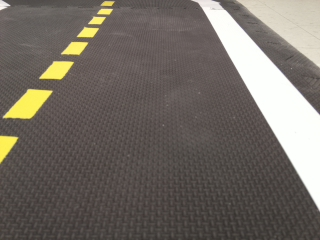
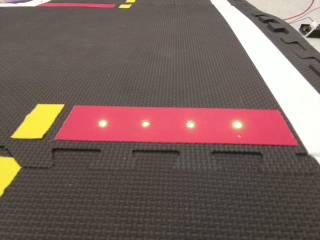
Fixed lights, analyzed control rate (added statistics message)

Changed region(s): [[0.0, 0.0, 1.0, 0.875], [0.4062, 0.9042, 0.4375, 0.9917], [0.9688, 0.9917, 1.0, 1.0]]

diff --git a/Python/driver.py b/Python/driver.py
@@ -31,12 +31,14 @@ class Driver:
     
     self.red_roi = cv.red_roi
     self.green_roi = cv.green_roi
+    self.green_roi.recenter(*self.red_roi.get_center())
     
   def update(self, image):
     if self.needs_instruction:
       print('Driver needs instruction!')
       return
       
+    #print('Driver in state {}'.format(self.state))
     if self.state == DriveState.FOLLOWING_LANE:
       # Look for Stop using RegionOfInterest code
       red = cv.search_region(image, self.red_roi, cv.Color.RED)
@@ -47,12 +49,19 @@ class Driver:
         self.state = DriveState.APPROACHING_STOP
         print('Stop seen for the first time')
         
+        # Get stop center.
+        start_red, end_red = cv.get_color_extent_vt(image, red[0], red[1])
+        red_center = start_red[0] + int((end_red[0] - start_red[0]) / 2.0), red[1]
+        # Center red ROI on the center of the red line
+        self.red_roi.recenter(red_center[0], red_center[1])
+
         # Debugging
         cv.draw_region(image, self.red_roi, (255, 255, 255))
         cv.draw_square(image, self.red_roi.get_center()[0], self.red_roi.get_center()[1], (255, 255, 255), 5)
         Image.fromarray(image, 'RGB').show()
-        # Call another update to run in APPROACHING_STOP
-        self.update(image)
+        return
+                # Call another update to run in APPROACHING_STOP
+        #self.update(image)
       # No stop: continue lane-following
       else:
         # Get lane center coordinates *in pixels*
@@ -73,7 +82,10 @@ class Driver:
         # No lane seen while following lane: use previous point.
         if lane_center is None and self.state == DriveState.FOLLOWING_LANE:
           #print('Couldn\'t see the lane')  # TODO: TIMEOUT IF CAN'T SEE THE LANE FOR MORE THAN X SECONDS
-          lane_center = self.old_ctr
+          try:
+            lane_center = self.old_ctr
+          except:
+            pass
         # No lane seen while in intersection: do nothing (let open loop continue)
         elif lane_center is None and self.state == DriveState.IN_INTERSECTION:
           print('Continuing open-loop')
@@ -92,6 +104,12 @@ class Driver:
     # Currently approaching stop: track the stop line as it gets closer
     elif self.state == DriveState.APPROACHING_STOP:
       print('APPROACHING STOP')
+      red = cv.search_region(image, self.red_roi, cv.Color.RED)
+      if not red:
+        print('Cant find red')
+        cv.draw_region(image, self.red_roi, (255, 255, 255))
+        cv.draw_square(image, self.red_roi.get_center()[0], self.red_roi.get_center()[1], (255, 255, 255), 5)
+        Image.fromarray(image, 'RGB').show()
       # Get stop center.
       start_red, end_red = cv.get_color_extent_vt(image, red[0], red[1])  # TODO: GET WHOLE REGION OF RED?
       red_center = start_red[0] + int((end_red[0] - start_red[0]) / 2.0), red[1]
@@ -113,7 +131,8 @@ class Driver:
         
     # Currently stopped: check for green.  
     elif self.state == DriveState.STOPPED:
-      green = cv.search_region(image, self.green_roi, cv.Color.GREEN, box_size=1, step_rows=1, step_cols=1)
+      print('Searching for green in {}'.format(self.green_roi))
+      green = cv.search_region(image, self.green_roi, cv.Color.GREEN, box_size=1, step_rows=2, step_cols=2)
       
       # Green seen: start rolling into intersection
       if green:
@@ -153,7 +172,7 @@ class Driver:
       elif self.next_turn == TurnType.RIGHT:
         self.car.command_openloop_rcurve(self.speed_limit, \
             RIGHT_TURN_RADIUS, PI / 2.0, self._on_openloop_finished)
-      elif next_turn == TurnType.STRAIGHT:
+      elif self.next_turn == TurnType.STRAIGHT:
         self.car.command_openloop_straight(self.speed_limit, \
             5.0, self._on_openloop_finished)
       else:

diff --git a/Python/arduino_interface.py b/Python/arduino_interface.py
@@ -19,7 +19,7 @@ class ArduinoInterface:
     else:
       while self.serial_port.in_waiting >= 14:
         bytes_read = self.serial_port.read(14)
-        print('Got bytes {}'.format(bytes_read))
+        #print('Got bytes {}'.format(bytes_read))
         read_packet = ArduinoToPiPacket(bytes_read)
         # Look up whether there is a registered callback function
         if read_packet.seq_num in self.callbacks:
@@ -29,7 +29,7 @@ class ArduinoInterface:
 
   # Creates and sends the packet. Also registers the callback function.
   def send_packet(self, command_id, arg1=0.0, arg2=0.0, arg3=0.0, callback_fcn=None):
-    print('Sending packet')
+    #print('Sending packet')
     # Increment and save sequence number
     self.seq_num += 1
     seq_num = self.seq_num
@@ -74,3 +74,6 @@ class ArduinoInterface:
   def command_closedloop(self, rx, ry, rtheta, callback=None):
       self.send_packet(PiToArduinoCmd.CLOSEDLOOP, arg1=rx, arg2=ry, \
           arg3=rtheta)
+          
+  def turn_statistics_on(self, period_sec, callback=None):
+      self.send_packet(PiToArduinoCmd.TURN_STATISTICS_ON, arg1=period_sec, callback_fcn=callback)

diff --git a/Python/main.py b/Python/main.py
@@ -12,6 +12,10 @@ IMAGE_HEIGHT = 240
 segment_start_time = None
 num_driver_updates = 0
 
+def _receive_statistics(msPerLoop, msPerPacket, arg3):
+  print('Received statistics {} ms per loop, {} ms per packet'.format(msPerLoop, msPerPacket))
+  
+  
 if __name__ == '__main__':
   arduino_interface = ArduinoInterface('/dev/ttyACM0', 115200, timeout=1.0)
   camera = Camera(framerate=20)
@@ -23,6 +27,7 @@ if __name__ == '__main__':
   time.sleep(2)
   driver.set_speed_limit(10.0)
   pixel_data = np.empty(shape=(IMAGE_HEIGHT, IMAGE_WIDTH, 3), dtype='uint8')
+  arduino_interface.turn_statistics_on(10, _receive_statistics)
   
   try:
     while True:
@@ -48,8 +53,12 @@ if __name__ == '__main__':
         
       # Run next control update if a frame is ready.
       if camera.frame_ready:
+        print('Frame ready at time {}'.format(time.time()))
+        start_time = time.time()
         camera.get_frame(pixel_data)
         driver.update(pixel_data)
+        end_time = time.time()
+        print('Update loop took {} seconds'.format(end_time - start_time))
         num_driver_updates += 1
         
   finally:

diff --git a/Python/cv.py b/Python/cv.py
@@ -21,19 +21,19 @@ CAMERA_RESOLUTION = (320, 240)
 YELLOW_RGB = (254, 240, 82)
 RED_RGB = (255, 73, 109)
 WHITE_RGB = (254, 255, 253)
-GREEN_RGB = (120, 190, 150) # TODO: 
+GREEN_RGB = (251, 254, 247)
 
 YELLOW_TOLERANCE = 75
 RED_TOLERANCE = 70
 WHITE_TOLERANCE = 40
-GREEN_TOLERANCE = 70 # TODO
+GREEN_TOLERANCE = 50 # TODO
 
 # Scaled for 320*240
 sample_size = 4
 pixels_per_cm = 12
 LANE_WIDTH_PX = 240
-yellow_width = 0#22
-white_width = 0#32
+yellow_width = 0
+white_width = 0
 start_row = int(img_height*(160/240))
 rows_checked = int(img_height*(40/240))
 start_col = 0
@@ -102,7 +102,7 @@ white_backup_roi = RegionOfInterest(70, 155, 165, 100)
 red_roi = RegionOfInterest(100, 150, 40, 40)
 red_backup_roi = RegionOfInterest(130, 150, 45, 100)
 catastrophic_roi = RegionOfInterest(0, 0, CAMERA_RESOLUTION[0], CAMERA_RESOLUTION[1])
-green_roi = RegionOfInterest(100, 70, 120, 40)  # TODO
+green_roi = RegionOfInterest(100, 70, 160, 60)  # TODO
 
 # Possible colors
 class Color(Enum):

diff --git a/Arduino/ducky_town/packet_defs.h b/Arduino/ducky_town/packet_defs.h
@@ -23,7 +23,9 @@ enum class PiToArduinoCmd
   SET_OPENLOOP_STRAIGHT = 7,
   SET_OPENLOOP_R_CURVE = 8,
   SET_OPENLOOP_L_CURVE = 9,
-  SET_CLOSEDLOOP = 10
+  SET_CLOSEDLOOP = 10,
+  RESET_ODOMETRY = 11, // TODO
+  TURN_STATISTICS_ON = 12
 };
 
 enum class ArduinoToPiRsp   // TODO: THREE LONGS
@@ -34,7 +36,8 @@ enum class ArduinoToPiRsp   // TODO: THREE LONGS
   ILLEGIBLE_PACKET = 4,
   ODOMETRY = 5,
   TICKS = 6,
-  CONTROL_FINISHED = 7
+  CONTROL_FINISHED = 7,
+  STATISTICS = 8
   //MOTOR_ERROR = 3
 };
 

diff --git a/Arduino/ducky_town/wheel_interface.cpp b/Arduino/ducky_town/wheel_interface.cpp
@@ -34,11 +34,19 @@ int WheelInterface::boundRightPWM(int pwm)
 
 int WheelInterface::leftPWMFromSpeed(float cmPerSec)  // TODO: USE NEW TRACK PWMS
 {
+  if (cmPerSec == 0.0)
+  {
+    return 0;
+  }
   return (int) (89.81 + cmPerSec * 6.024);
 }
 
 int WheelInterface::rightPWMFromSpeed(float cmPerSec)  // TODO: DOES THIS WORK FOR NEGATIVE VALUES?
 {
+  if (cmPerSec == 0.0)
+  {
+    return 0;
+  }
   return (int) (88.39 + cmPerSec * 5.952);
 }
 

diff --git a/Arduino/ducky_town/proximity_sensor.cpp b/Arduino/ducky_town/proximity_sensor.cpp
@@ -39,7 +39,7 @@ void ProximitySensor::runCollisionAvoidance(float dx, WheelInterface* wheels)
   {
     wheels->startSpeedOverride(0);
     //wheels->commandPWMs(0, 0);
-    Serial.println("Overriding (dist " + String(fwd_dist) + ")");
+//    Serial.println("Overriding (dist " + String(fwd_dist) + ")");
   }
   // Turn off override.
   if (fwd_dist >= minFollowDistanceCm && wheels->overrideOn)

diff --git a/Python/packets.py b/Python/packets.py
@@ -13,6 +13,7 @@ class PiToArduinoCmd(Enum):
   OPENLOOP_L_CURVE = 9
   CLOSEDLOOP = 10
   RESET_ODOMETRY = 11
+  TURN_STATISTICS_ON = 12
 
 # TODO: PREAMBLES?
 class PiToArduinoPacket:
@@ -43,6 +44,7 @@ class ArduinoToPiRsp(Enum):
   CMD_3 = 3
   #CMD_GET_TICKS = 6
   CONTROL_FINISHED = 7
+  STATISTICS = 8
 
 class ArduinoToPiPacket:
   # Parses Arduino->Pi packet from the given byte array.

diff --git a/Arduino/ducky_town/lights_interface.cpp b/Arduino/ducky_town/lights_interface.cpp
@@ -5,6 +5,8 @@ void LightsInterface::init(int leftPin, int rightPin)
 {
   this->leftPin = leftPin;
   this->rightPin = rightPin;
+  pinMode(leftPin, OUTPUT);
+  pinMode(rightPin, OUTPUT);
 }
 
 void LightsInterface::update()
